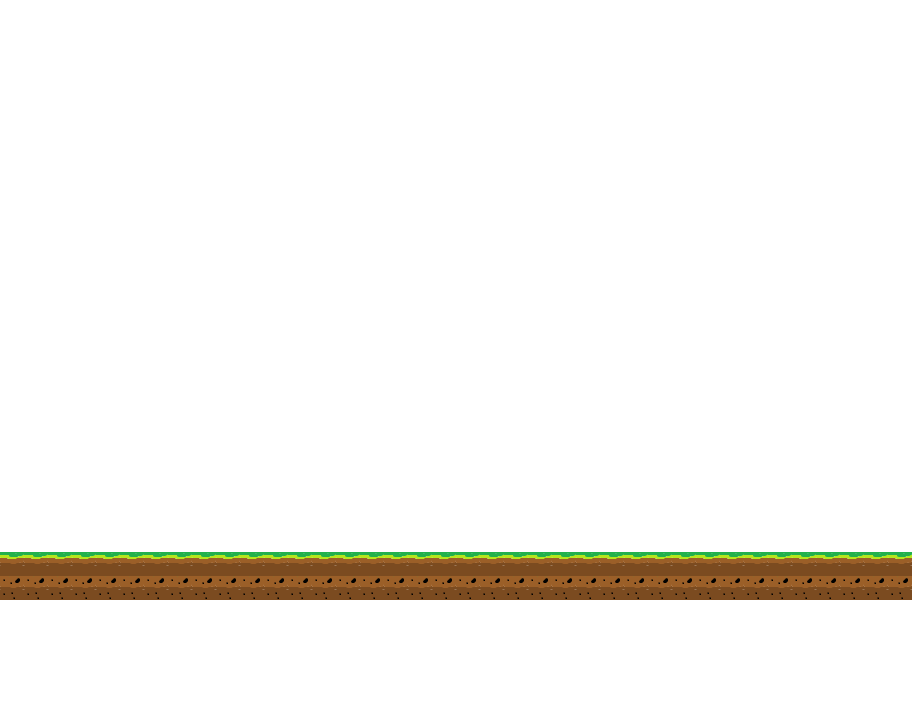
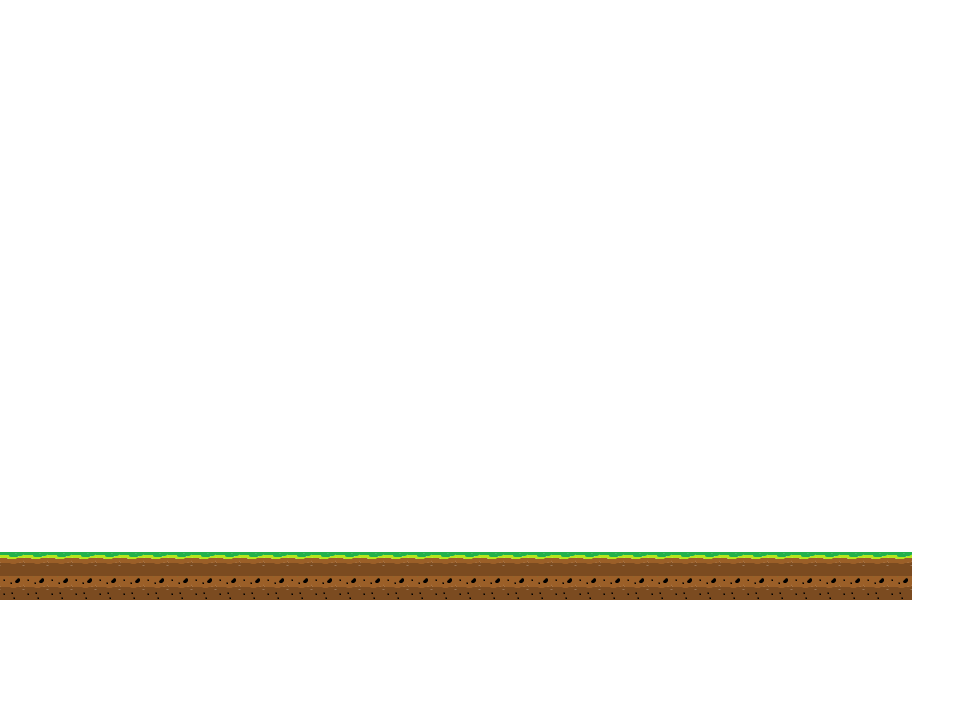
some background sprites update

Changed region(s): [[0.5526, 0.7639, 1.0, 0.8556], [0.0307, 0.7639, 0.4605, 0.825]]

diff --git a/src/MarianX/Sprites/Resources/Error.Designer.cs b/src/MarianX/Sprites/Resources/Error.Designer.cs
@@ -1,0 +1,72 @@
+//------------------------------------------------------------------------------
+// <auto-generated>
+//     This code was generated by a tool.
+//     Runtime Version:4.0.30319.296
+//
+//     Changes to this file may cause incorrect behavior and will be lost if
+//     the code is regenerated.
+// </auto-generated>
+//------------------------------------------------------------------------------
+
+namespace MarianX.Sprites.Resources {
+    using System;
+    
+    
+    /// <summary>
+    ///   A strongly-typed resource class, for looking up localized strings, etc.
+    /// </summary>
+    // This class was auto-generated by the StronglyTypedResourceBuilder
+    // class via a tool like ResGen or Visual Studio.
+    // To add or remove a member, edit your .ResX file then rerun ResGen
+    // with the /str option, or rebuild your VS project.
+    [global::System.CodeDom.Compiler.GeneratedCodeAttribute("System.Resources.Tools.StronglyTypedResourceBuilder", "4.0.0.0")]
+    [global::System.Diagnostics.DebuggerNonUserCodeAttribute()]
+    [global::System.Runtime.CompilerServices.CompilerGeneratedAttribute()]
+    internal class Error {
+        
+        private static global::System.Resources.ResourceManager resourceMan;
+        
+        private static global::System.Globalization.CultureInfo resourceCulture;
+        
+        [global::System.Diagnostics.CodeAnalysis.SuppressMessageAttribute("Microsoft.Performance", "CA1811:AvoidUncalledPrivateCode")]
+        internal Error() {
+        }
+        
+        /// <summary>
+        ///   Returns the cached ResourceManager instance used by this class.
+        /// </summary>
+        [global::System.ComponentModel.EditorBrowsableAttribute(global::System.ComponentModel.EditorBrowsableState.Advanced)]
+        internal static global::System.Resources.ResourceManager ResourceManager {
+            get {
+                if (object.ReferenceEquals(resourceMan, null)) {
+                    global::System.Resources.ResourceManager temp = new global::System.Resources.ResourceManager("MarianX.Sprites.Resources.Error", typeof(Error).Assembly);
+                    resourceMan = temp;
+                }
+                return resourceMan;
+            }
+        }
+        
+        /// <summary>
+        ///   Overrides the current thread's CurrentUICulture property for all
+        ///   resource lookups using this strongly typed resource class.
+        /// </summary>
+        [global::System.ComponentModel.EditorBrowsableAttribute(global::System.ComponentModel.EditorBrowsableState.Advanced)]
+        internal static global::System.Globalization.CultureInfo Culture {
+            get {
+                return resourceCulture;
+            }
+            set {
+                resourceCulture = value;
+            }
+        }
+        
+        /// <summary>
+        ///   Looks up a localized string similar to All sprites in an individual Scrolling Background should have the same dimensions..
+        /// </summary>
+        internal static string ScrollingBackground_AssetDimensions {
+            get {
+                return ResourceManager.GetString("ScrollingBackground_AssetDimensions", resourceCulture);
+            }
+        }
+    }
+}

diff --git a/src/MarianX/Sprites/ScrollingBackground.cs b/src/MarianX/Sprites/ScrollingBackground.cs
@@ -1,7 +1,8 @@
+using System;
 using System.Collections.Generic;
 using System.Linq;
-using MarianX.Contents;
 using MarianX.Interface;
+using MarianX.Sprites.Resources;
 using Microsoft.Xna.Framework;
 using Microsoft.Xna.Framework.Content;
 using Microsoft.Xna.Framework.Graphics;
@@ -10,52 +11,54 @@ namespace MarianX.Sprites
 {
 	public class ScrollingBackground : IGameContent
 	{
-		private readonly IList<string> assetNames;
-		private readonly IList<Sprite> sprites;
+		private readonly IList<ScrollingBackgroundAsset> assets;
+		private readonly IList<ScrollingBackgroundSprite> sprites;
 
 		public Vector2 Position { get; private set; }
 
-		public ScrollingBackground(IList<string> assetNames)
+		public ScrollingBackground(IList<ScrollingBackgroundAsset> assets)
 		{
-			this.assetNames = assetNames;
-			sprites = new List<Sprite>();
+			this.assets = assets;
+			sprites = new List<ScrollingBackgroundSprite>();
 		}
 
 		public virtual void Initialize()
 		{
-			foreach (string assetName in assetNames)
+			foreach (ScrollingBackgroundAsset asset in assets)
 			{
-				Sprite sprite = new Sprite(assetName);
+				var sprite = new ScrollingBackgroundSprite(asset);
 				sprite.Initialize();
 				sprites.Add(sprite);
+			}
+
+			Validate();
+		}
+
+		private void Validate()
+		{
+			// scrolling background makes a few assumptions, validate on them.
+			bool width = sprites.All(s => sprites.All(sprite => sprite.ActualSize.Width == s.ActualSize.Width));
+			bool height = sprites.All(s => sprites.All(sprite => sprite.ActualSize.Height == s.ActualSize.Height));
+
+			if (!width || !height)
+			{
+				throw new InvalidOperationException(Error.ScrollingBackground_AssetDimensions);
 			}
 		}
 
 		public virtual void Load(ContentManager content)
 		{
-			Sprite previous = null;
-
-			foreach (Sprite sprite in sprites)
+			foreach (ScrollingBackgroundSprite sprite in sprites)
 			{
 				sprite.Load(content);
-
-				if (previous == null)
-				{
-					Position = Vector2.Zero;
-				}
-				else
-				{
-					sprite.Position = new Vector2(previous.Position.X + previous.ActualSize.Width, previous.Position.Y);
-				}
-				previous = sprite;
 			}
 		}
 
 		public virtual void Update(GameTime gameTime)
 		{
-			Sprite previous = sprites.Last();
+			ScrollingBackgroundSprite previous = sprites.Last();
 
-			foreach (Sprite sprite in sprites)
+			foreach (ScrollingBackgroundSprite sprite in sprites)
 			{
 				if (sprite.Position.X < -sprite.ActualSize.Width)
 				{
@@ -72,7 +75,7 @@ namespace MarianX.Sprites
 		{
 			spriteBatch.Begin();
 
-			foreach (Sprite sprite in sprites)
+			foreach (ScrollingBackgroundSprite sprite in sprites)
 			{
 				sprite.Draw(gameTime, spriteBatch);
 			}
@@ -86,7 +89,7 @@ namespace MarianX.Sprites
 
 		public void UpdateScreenPosition(Vector2 screenPosition)
 		{
-			foreach (Sprite sprite in sprites)
+			foreach (ScrollingBackgroundSprite sprite in sprites)
 			{
 				sprite.ScreenPosition = screenPosition;
 			}

diff --git a/src/MarianX/Sprites/MapBackground.cs b/src/MarianX/Sprites/MapBackground.cs
@@ -15,13 +15,13 @@ namespace MarianX.Sprites
 
 		public MapBackground(string path, string format)
 		{
-			IList<string> assetNames = FindAssetNames(path, format);
+			IList<ScrollingBackgroundAsset> assetNames = FindAssetNames(path, format);
 			scrollingBackground = new ScrollingBackground(assetNames);
 		}
 
-		private IList<string> FindAssetNames(string path, string format)
+		private IList<ScrollingBackgroundAsset> FindAssetNames(string path, string format)
 		{
-			IList<string> assetNames = new List<string>();
+			IList<ScrollingBackgroundAsset> assetNames = new List<ScrollingBackgroundAsset>();
 
 			using (Stream stream = File.OpenRead(path))
 			using (TextReader reader = new StreamReader(stream))
@@ -36,7 +36,13 @@ namespace MarianX.Sprites
 				{
 					for (int y = 0; y < h; y++)
 					{
-						assetNames.Add(string.Format(format, x, y));
+						string name = string.Format(format, x, y);
+						assetNames.Add(new ScrollingBackgroundAsset
+						{
+							Name = name,
+							X = x,
+							Y = y
+						});
 					}
 				}
 			}

diff --git a/src/MarianX/Sprites/ScrollingBackgroundSprite.cs b/src/MarianX/Sprites/ScrollingBackgroundSprite.cs
@@ -1,0 +1,26 @@
+using MarianX.Contents;
+using Microsoft.Xna.Framework;
+using Microsoft.Xna.Framework.Content;
+
+namespace MarianX.Sprites
+{
+	public class ScrollingBackgroundSprite : Sprite
+	{
+		private readonly ScrollingBackgroundAsset asset;
+
+		public ScrollingBackgroundSprite(ScrollingBackgroundAsset asset)
+			: base(asset.Name)
+		{
+			this.asset = asset;
+		}
+
+		public override void Load(ContentManager content)
+		{
+			base.Load(content);
+
+			int x = asset.X * ActualSize.Width;
+			int y = asset.Y * ActualSize.Height;
+			Position = new Vector2(x, y);
+		}
+	}
+}

diff --git a/src/MarianX.Map/Builder/Persistance.cs b/src/MarianX.Map/Builder/Persistance.cs
@@ -30,9 +30,12 @@ namespace MarianX.Map.Builder
 			Bitmap bitmap = new Bitmap(Tile.Width * width, Tile.Height * height);
 			Graphics graphics = Graphics.FromImage(bitmap);
 
-			for (int x = startX; x < startX + width; x++)
+			int lengthX = map.GetLength(0);
+			int lengthY = map.GetLength(1);
+
+			for (int x = startX; x < startX + width && x < lengthX; x++)
 			{
-				for (int y = startY; y < startY + height; y++)
+				for (int y = startY; y < startY + height && y < lengthY; y++)
 				{
 					Fill(graphics, map[x, y], x - startX, y - startY);
 				}

diff --git a/src/MarianX.Map/Builder/FragmentedPersistance.cs b/src/MarianX.Map/Builder/FragmentedPersistance.cs
@@ -29,7 +29,7 @@ namespace MarianX.Map.Builder
 
 				if (i == mapWidth - 1)
 				{
-					w = colTotal - fragmentWidth * i;
+					// w = colTotal - fragmentWidth * i;
 				}
 
 				for (int j = 0; j < mapHeight; j++)
@@ -39,7 +39,7 @@ namespace MarianX.Map.Builder
 
 					if (j == mapHeight - 1)
 					{
-						h = rowTotal - fragmentHeight * j;
+						// h = rowTotal - fragmentHeight * j;
 					}
 
 					string path = string.Format(format, i, j);

diff --git a/src/MarianX.World/Configuration/MagicNumbers.cs b/src/MarianX.World/Configuration/MagicNumbers.cs
@@ -33,8 +33,8 @@ namespace MarianX.World.Configuration
 
 		public const float Friction = 4.4f;
 
-		public const int RelativeScreenLeft = 144;
-		public const int RelativeScreenRight = 144;
+		public const int RelativeScreenLeft = 288;
+		public const int RelativeScreenRight = 288;
 		public const int RelativeScreenTop = 144;
 		public const int RelativeScreenBottom = 144;
 	}

diff --git a/src/MarianX/Sprites/ScrollingBackgroundAsset.cs b/src/MarianX/Sprites/ScrollingBackgroundAsset.cs
@@ -1,0 +1,9 @@
+namespace MarianX.Sprites
+{
+	public class ScrollingBackgroundAsset
+	{
+		public string Name { get; set; }
+		public int X { get; set; }
+		public int Y { get; set; }
+	}
+}
